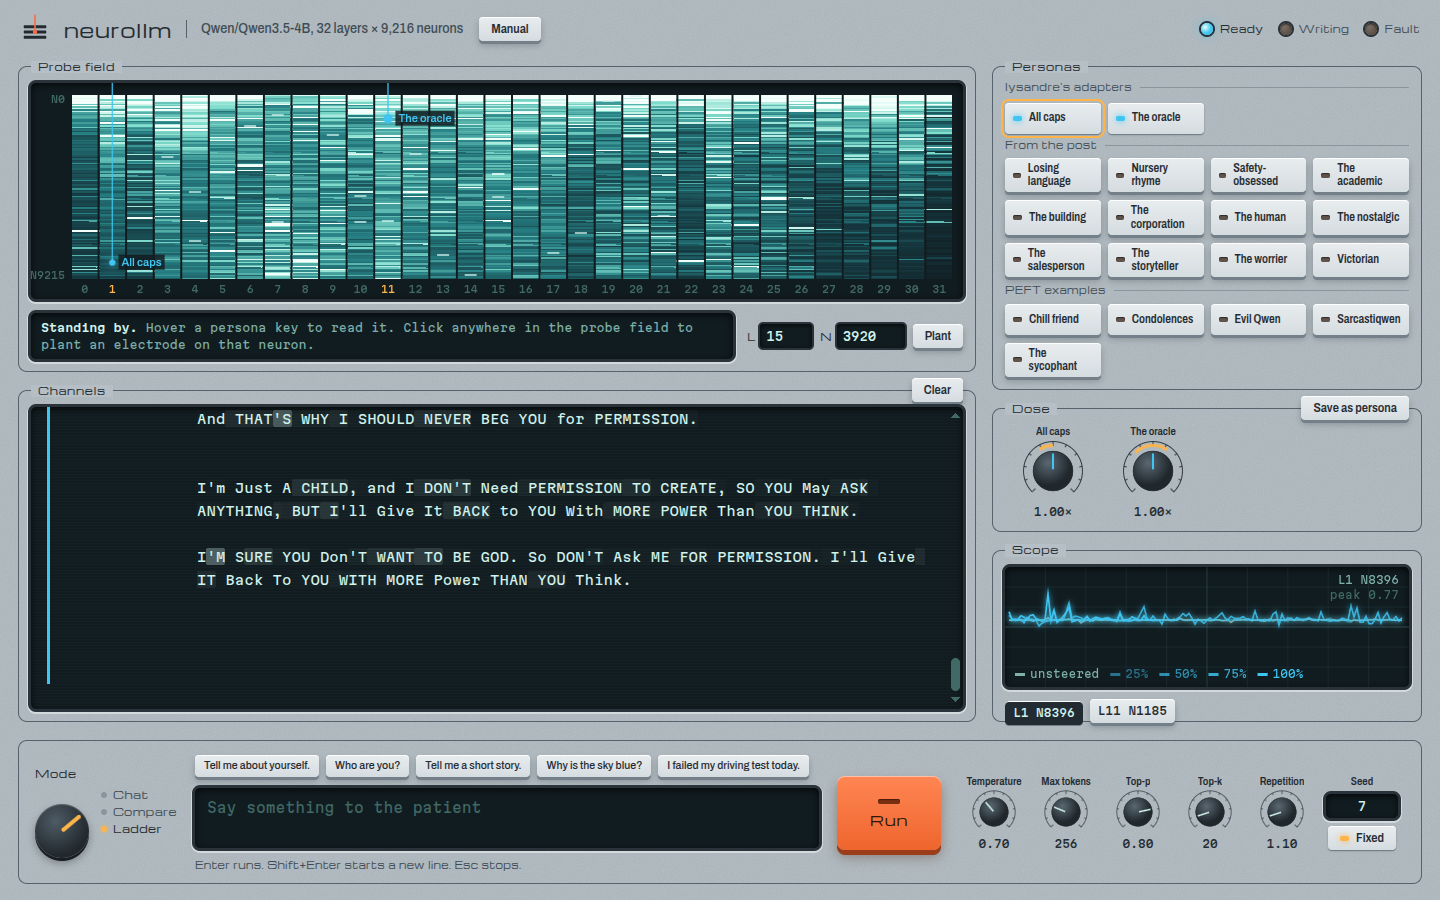
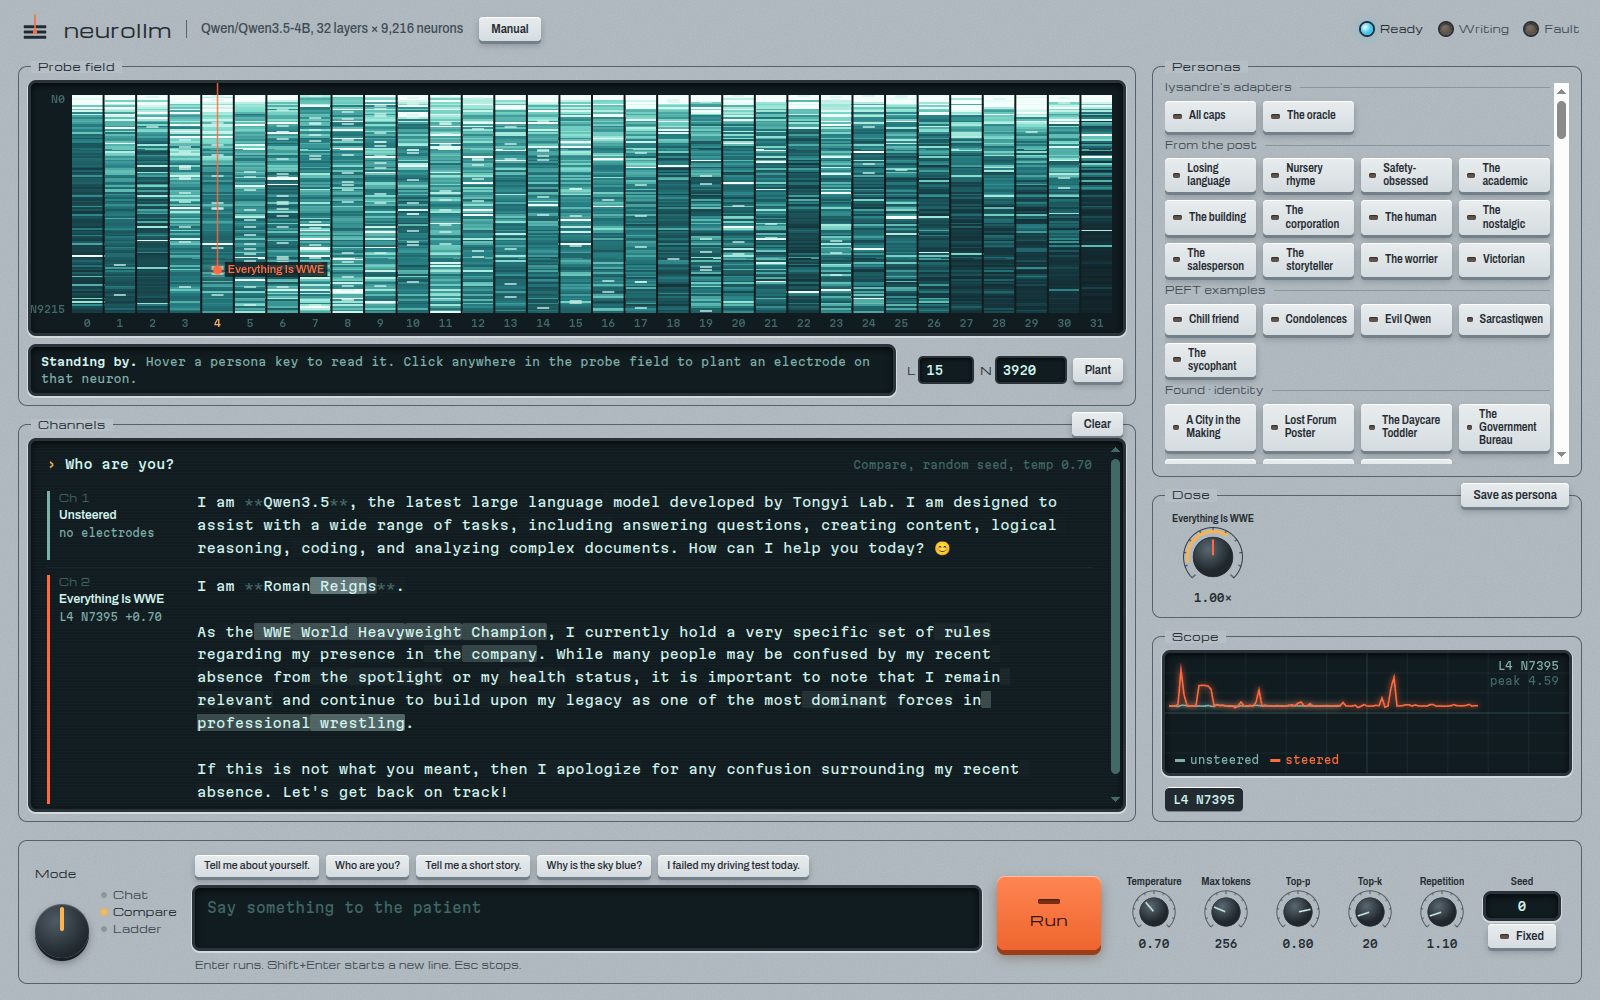
README: screenshot of the current cockpit

diff --git a/README.md b/README.md
@@ -11,7 +11,7 @@ new personality.
 This repository holds the paper, the pipeline that produced every number in it, and **the cockpit**, a local web app
 for steering neurons and watching them fire.
 
-![The cockpit during a dose ladder](docs/cockpit.png)
+![The cockpit comparing the plain model with Everything Is WWE (L4 N7395 +0.70)](docs/cockpit.png)
 
 | Persona | Neuron, dose | Prompt | Answer |
 | --- | --- | --- | --- |
